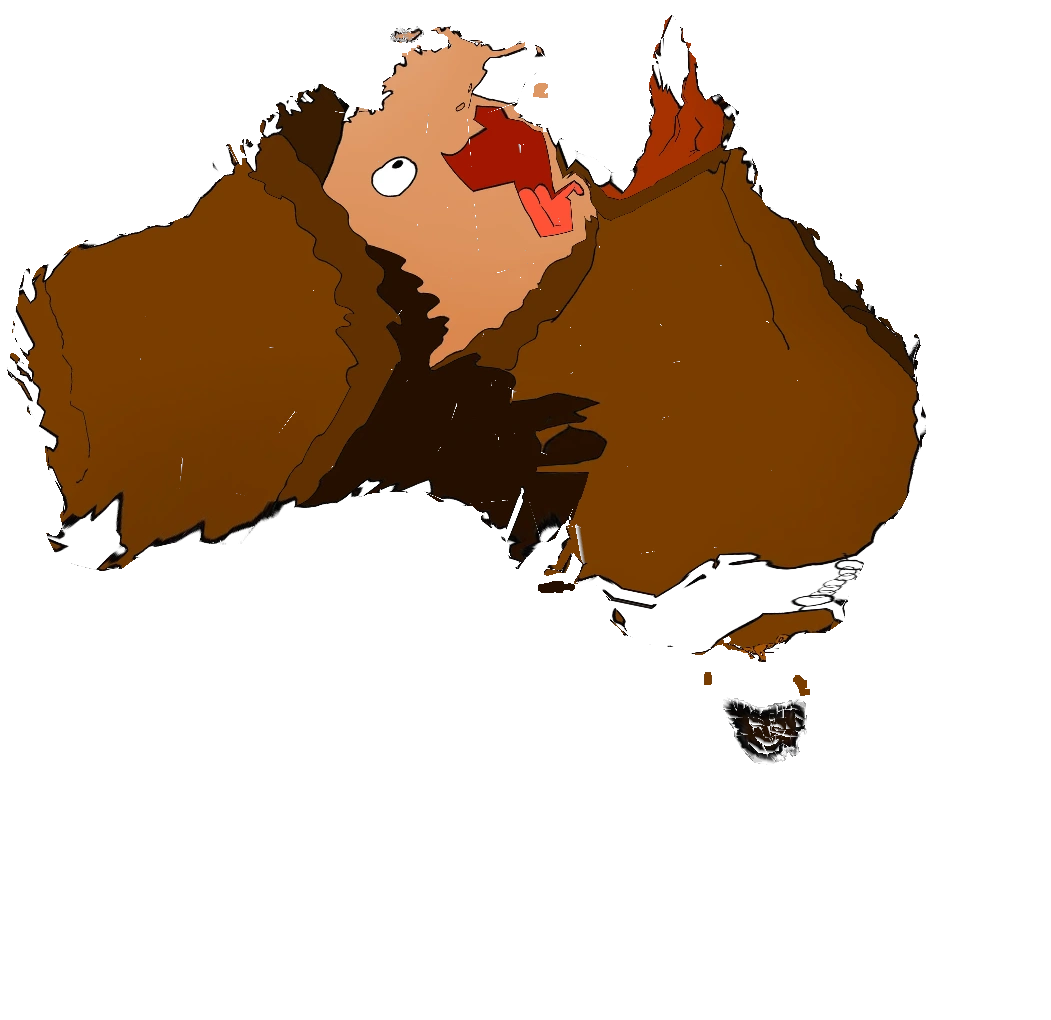
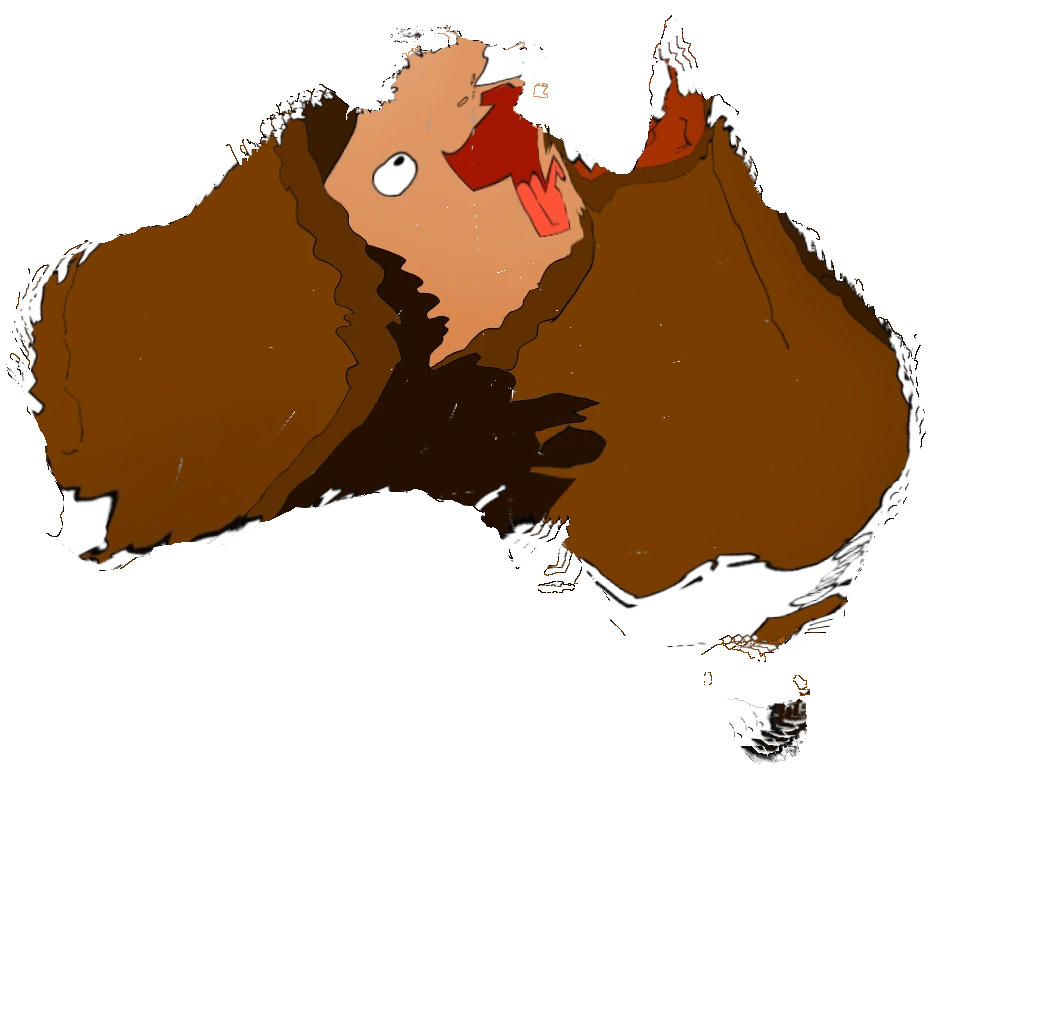
Refine AUS/BOL/CAN globe warps with targeted edge repair

diff --git a/tools/build_globe_warps.py b/tools/build_globe_warps.py
@@ -42,6 +42,12 @@ EDGE_ACCEPT_MIN_GAIN = 2.0
 EDGE_ACCEPT_MAX_IOU_DROP = 0.05
 EDGE_ACCEPT_MIN_IOU = 0.80
 FORCE_ACCEPT_FEATURE_KEYS = {"RUS"}
+POST_EDGE_REPAIR_MIN_AREA = 20000
+POST_EDGE_REPAIR_MIN_EDGE_EXCESS = 4.0
+POST_EDGE_REPAIR_MAX_IOU_DROP = 0.02
+POST_EDGE_REPAIR_MAX_PASSES = 3
+POST_EDGE_REPAIR_MIN_EDGE_GAIN = 2.0
+POST_EDGE_REPAIR_FEATURE_KEYS = {"AUS", "BOL", "CAN"}
 CANDIDATE_IOU_EPS = 0.001
 CANDIDATE_EDGE_SOFT_GAIN = 0.8
 CANDIDATE_EDGE_HARD_GAIN = 2.5
@@ -578,6 +584,46 @@ def edge_snap_refine(
     return current, passes, current_edge, current_iou
 
 
+def post_edge_repair(
+    rgba: np.ndarray,
+    target_mask: np.ndarray,
+    max_passes: int = POST_EDGE_REPAIR_MAX_PASSES,
+    max_iou_drop: float = POST_EDGE_REPAIR_MAX_IOU_DROP,
+) -> Tuple[np.ndarray, int, Optional[float], Optional[float]]:
+    current_iou = shape_iou(rgba[:, :, 3], target_mask)
+    current_edge = boundary_mean_error(rgba[:, :, 3], target_mask)
+    if current_edge is None:
+        return rgba, 0, current_edge, current_iou
+
+    floor_iou = current_iou - max_iou_drop
+    best_rgba = rgba
+    best_iou = current_iou
+    best_edge = current_edge
+
+    probe = rgba
+    used_passes = 0
+    for idx in range(max_passes):
+        candidate = edge_snap_refine_once(probe, target_mask)
+        if candidate is None:
+            break
+        candidate = clip_rgba_to_mask(candidate, target_mask)
+        cand_iou = shape_iou(candidate[:, :, 3], target_mask)
+        cand_edge = boundary_mean_error(candidate[:, :, 3], target_mask)
+        if cand_edge is None:
+            break
+
+        probe = candidate
+        if cand_iou < floor_iou:
+            continue
+        if cand_edge + 1e-6 < best_edge:
+            best_rgba = candidate
+            best_iou = cand_iou
+            best_edge = cand_edge
+            used_passes = idx + 1
+
+    return best_rgba, used_passes, best_edge, best_iou
+
+
 def make_candidate(
     name: str,
     rgba: np.ndarray,
@@ -948,11 +994,38 @@ def process_country(
 
     iou_baseline = shape_iou(baseline[:, :, 3], target_mask)
     stage1_iou = shape_iou(stage1[:, :, 3], target_mask)
-    iou_warped = shape_iou(warped[:, :, 3], target_mask)
     baseline_edge = boundary_mean_error(baseline[:, :, 3], target_mask)
     stage1_edge = boundary_mean_error(stage1[:, :, 3], target_mask)
-    final_edge = boundary_mean_error(warped[:, :, 3], target_mask)
     target_area = int(np.sum(target_mask > 0))
+
+    iou_warped = shape_iou(warped[:, :, 3], target_mask)
+    final_edge = boundary_mean_error(warped[:, :, 3], target_mask)
+    if (
+        country.get("featureKey") in POST_EDGE_REPAIR_FEATURE_KEYS
+        and country.get("featureKey") not in FORCE_ACCEPT_FEATURE_KEYS
+        and
+        target_area >= POST_EDGE_REPAIR_MIN_AREA
+        and baseline_edge is not None
+        and final_edge is not None
+        and (final_edge - baseline_edge) >= POST_EDGE_REPAIR_MIN_EDGE_EXCESS
+    ):
+        repaired, repair_passes, repaired_edge, repaired_iou = post_edge_repair(
+            warped,
+            target_mask,
+            max_passes=POST_EDGE_REPAIR_MAX_PASSES,
+            max_iou_drop=POST_EDGE_REPAIR_MAX_IOU_DROP,
+        )
+        if (
+            repair_passes > 0
+            and repaired_edge is not None
+            and repaired_iou is not None
+            and final_edge - repaired_edge >= POST_EDGE_REPAIR_MIN_EDGE_GAIN
+        ):
+            warped = repaired
+            edge_snap_passes += int(repair_passes)
+            strategy = f"{strategy}+edge-repair"
+            iou_warped = float(repaired_iou)
+            final_edge = float(repaired_edge)
 
     key = country.get("featureKey", country["filename"])
     file_name = f"{safe_key(key)}.webp"
